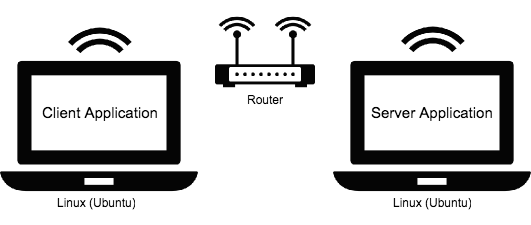
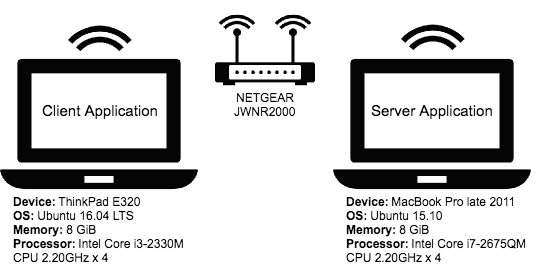
refactor and review

diff --git a/experimentalresults.tex b/experimentalresults.tex
@@ -1,11 +1,16 @@
 \section{Experimental Results}\label{sec:experimentalresults}
+The results for respectively the bandwidth experiment and the latency experiment are presented in the following subsections.
+
 \subsection{Bandwidth}
 In the following experiments the bandwidth of a \emph{single packet transaction} and the bandwidth of a \emph{complete communication scenario} for both aforementioned setups are measured. 
-Bandwidth generated by communication protocols is directly related to the energy consumption. By measuring the bandwidth in bytes and multiplying it with the energy consumption of sending a single byte using Arduino Due, it is possible to calculate the complete energy consumption of the used constrained devices. 
+%Bandwidth generated by communication protocols is directly related to the energy consumption. By measuring the bandwidth in bytes and multiplying it with the energy consumption of sending a single byte using Arduino Due, it is possible to calculate the complete energy consumption of the used constrained devices. 
 
 \subsubsection{Single Packet Transaction}
-This experiment is done where the client transmits a single packet, containing an arbitrary number, simulating a temperature measurement. \figurename{\ref{fig:singlepacket}} shows the results for a single packet transaction scenario, where NON-CoAP and CON-CoAP are the two different modes for CoAP over UDP. %NON-CoAP is non-confirmable which means that the
-\begin{figure}
+This experiment is done where the client transmits a single packet, containing an arbitrary number, simulating a temperature measurement. \figurename{\ref{fig:singlepacket}} shows the results for a single packet transaction scenario, where NON-CoAP and CON-CoAP are the two different settings for CoAP.
+The figure shows the separation of bytes at each layer. The separation was read from the packet details in the Wireshark caption. 
+
+%NON-CoAP is non-confirmable which means that the
+\begin{figure}[bht]
 	\begin{tikzpicture}
 	\begin{axis}[
 	%title={Single Packet Transaction (Client/Server)},
@@ -59,11 +64,11 @@ This experiment is done where the client transmits a single packet, containing a
 	\caption{Single Packet Transaction (Client/Server).}
 	\label{fig:singlepacket}
 \end{figure}
-It can be observed that CoAP over TCP overall has a lager packet than CoAP over UDP. This is primarily because of the TCP layer which has a 12 byte bigger overhead than UDP.
-Though the CoAP layer in the CoAP over TCP packet is 1 byte shorter than CoAP over UDP, because of the MessageID-field (2 byte) is removed and replaced with the Length-field (1 byte).
-%Why is ethernet 16 bytes???
+It can be observed that CoAP over TCP overall has a lager packet than CoAP. This is primarily because of the TCP layer which has a 12 byte bigger overhead than UDP.
+Though the CoAP layer in the CoAP over TCP packet is 1 byte shorter than CoAP, because of the modification made in the header as mentioned in section \ref{sec:background}.
+%TODO: Why is ethernet 16 bytes???
 
-With help of the measurements the energy consumption is calculated for the three packets. The calculation is shown below:
+%With help of the measurements the energy consumption is calculated for the three packets. The calculation is shown below:
 %calculation...
 
 %TCP minimum header size is 20 bytes, but because of using options among others timestamp option, it is measured to 32 bytes. Timestamp option is enabled par default on Ubuntu 16.10.

diff --git a/experimentsetup.tex b/experimentsetup.tex
@@ -1,19 +1,27 @@
 \section{Experiment Setup}\label{sec:experimentsetup}
-The experimental evaluation is done by help of several experiments on the two versions of the CoAP protocol. For these experiments different setups are made, all based on the IoTivity framework running on two Linux (Ubuntu) machines as illustrated in \figurename \ref{fig:setup}. These two machines are both wireless coupled to a local network via a router. The test case for the experiments is meant to represent a constrained device, acting as a client, updating the temperature on a cloud server with a specific interval of time. 
+The experimental evaluation is done by help of several experiments on the two versions of the CoAP protocol. For these experiments different setups are made, all based on the IoTivity framework v1.1.0 running on two Linux (Ubuntu) machines as illustrated in \figurename \ref{fig:setup}. These two machines are both wireless coupled to a local network via a router. 
 
-Linux is chosen to represent a constrained device as it is necessary to be able to easily monitor the communication from the client side of view.
+The first setup is for CoAP and uses two applications. These are, a simple IoTivity client and a server application. Both applications are developed in C++ and uses CoAP as an application protocol.
 
-The setup for CoAP over UDP as illustrated in \figurename \ref{fig:setup}, uses two applications. A simple IoTivity client and server application both developed in C++ using CoAP over UDP as an application protocol.
+The second setup is for CoAP over TCP and also uses two applications. These are, a simple IoTivity client application developed in C++ and a simple IoTivity server application developed in Java. Both applications uses CoAP over TCP as an application protocol.
+
 \begin{figure}[bht]
 	\centering
-	\includegraphics[width=3in]{gfx/setupa}
-	\caption{Setup for CoAP over UDP.}
+	\includegraphics[width=3.5in]{gfx/setupa}
+	\caption{The testbed.}
 	\label{fig:setup}
 \end{figure}
 
-Setup for CoAP over TCP as illustrated in \figurename \ref{fig:setup} uses two applications. A simple IoTivity client application developed in C++ and a simple IoTivity server application developed in Java. Both applications uses CoAP over TCP as an application protocol.
+The test case for the experiments is meant to represent a constrained device, acting as a client, updating the temperature on a cloud server with a specific interval of time. 
 
+Linux is chosen to represent a constrained device as it is necessary to be able to easily monitor the communication traffic between the client and the server from the client side of view.
 %Wireshark....
+The Wireshark network protocol analyzer tool is used for the monitoring.
+
+
+
+
+
 %\textbf{Memory consumption}\\
 %Flyt den del til et afsnit med prototype implementation (før resultaterne)
 %How much memory usage...
